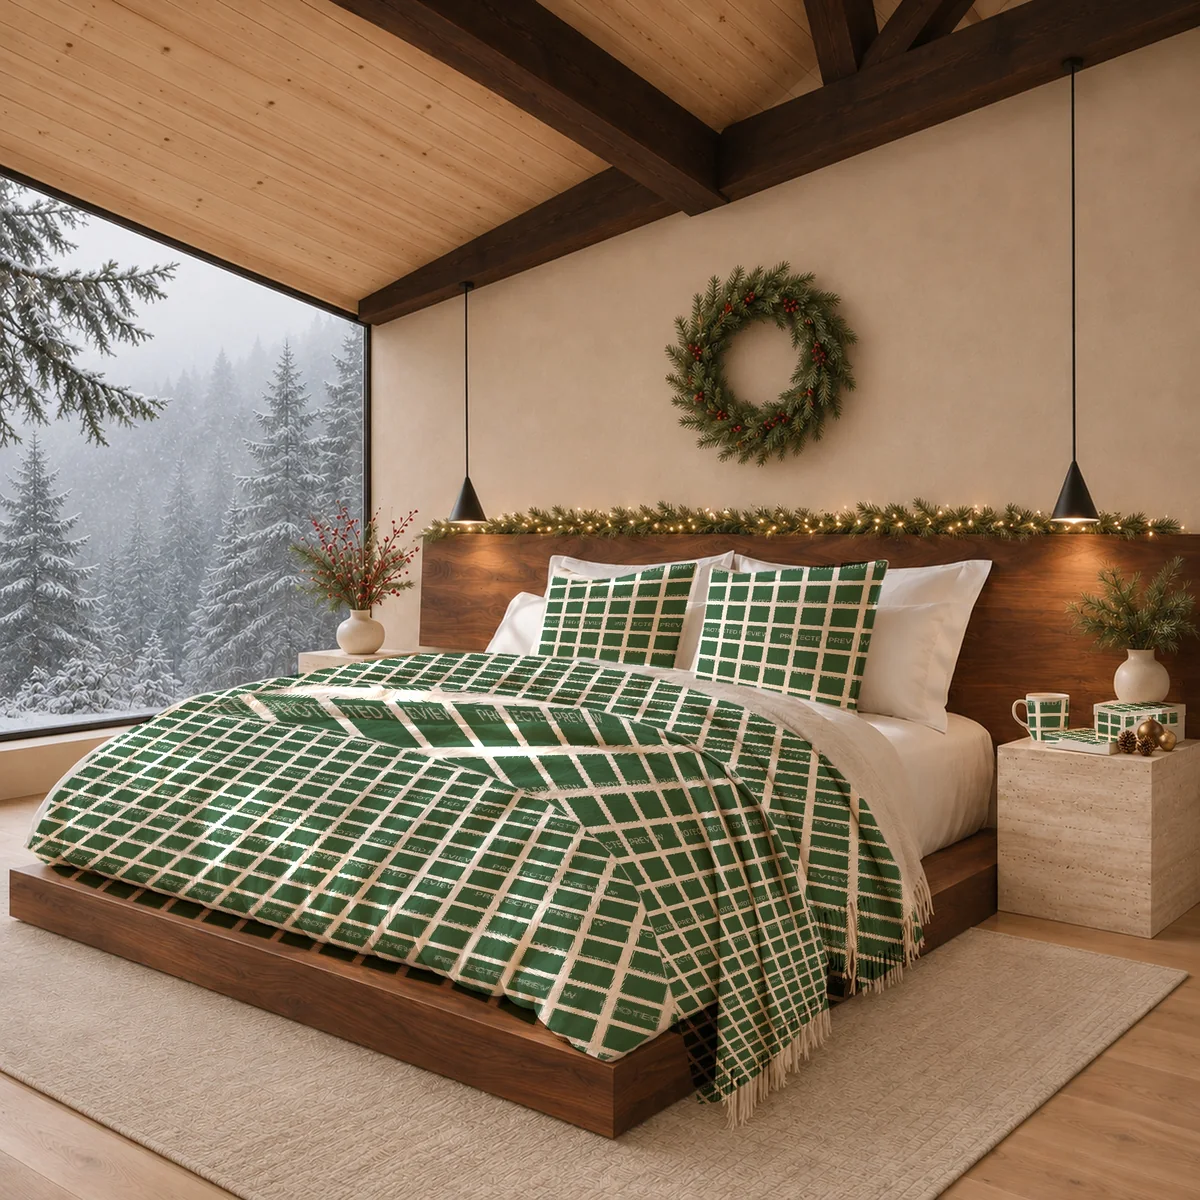
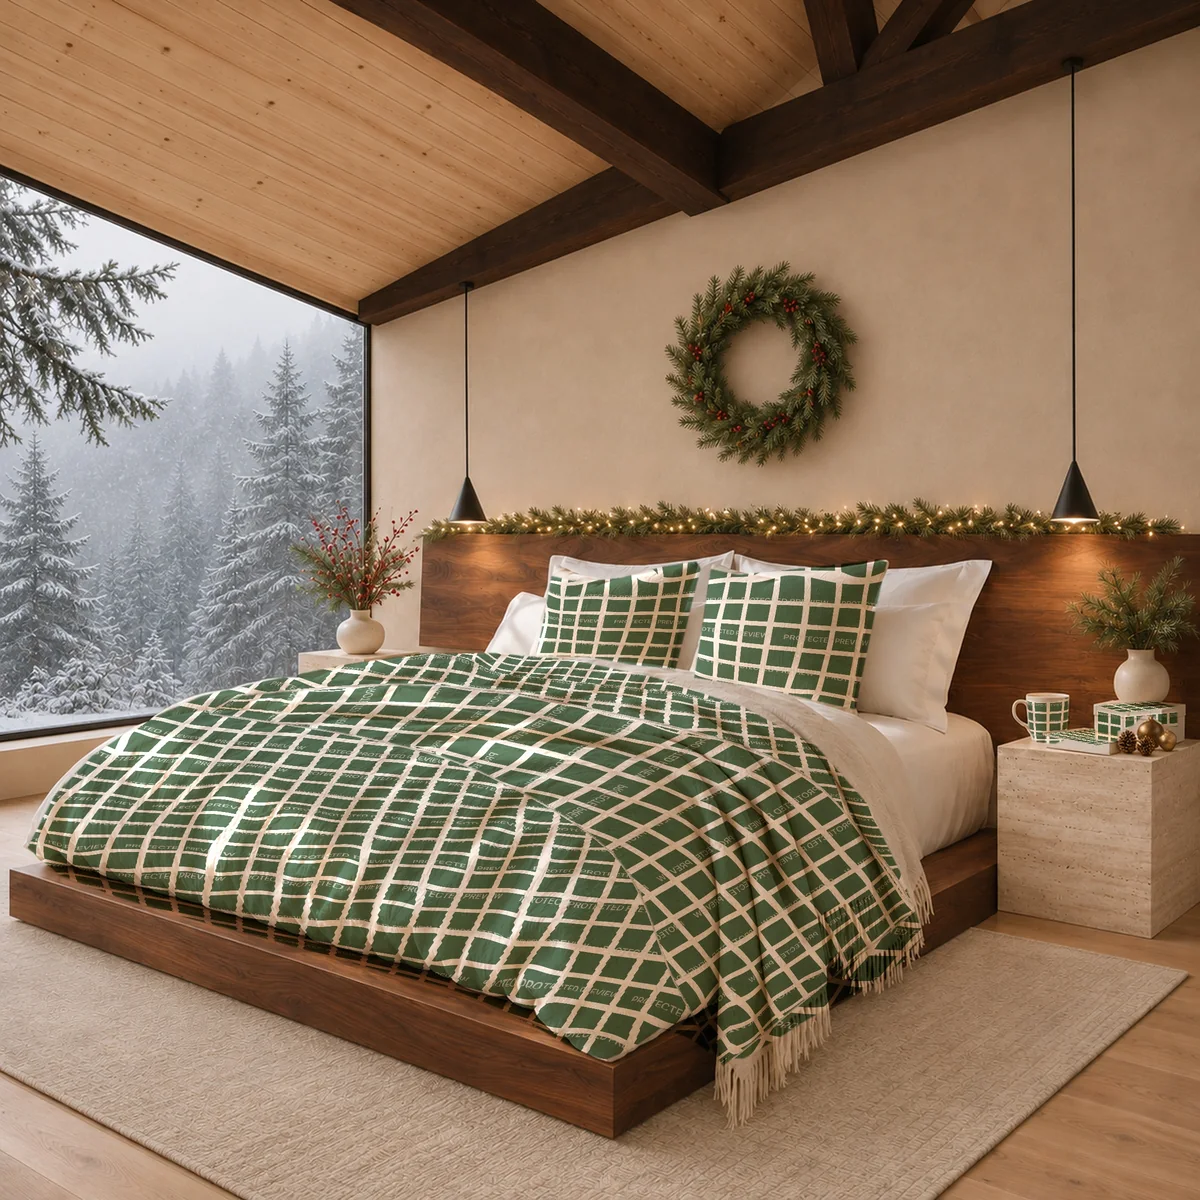
Refine sample surface mapping and material shading

Changed region(s): [[0.0308, 0.4625, 0.7708, 0.925], [0.8325, 0.5858, 0.925, 0.6167]]

diff --git a/index.html b/index.html
@@ -10,13 +10,13 @@
 <button type="button" data-pattern="geometric" aria-pressed="false"><span class="swatch grid" aria-hidden="true"></span>Windowpane</button></div></fieldset>
 <fieldset><legend>02 · Set the season</legend><div class="theme-options"><button type="button" data-theme="default" aria-pressed="true">Everyday</button><button type="button" data-theme="thanksgiving" aria-pressed="false">Thanksgiving</button><button type="button" data-theme="christmas" aria-pressed="false">Christmas</button></div></fieldset>
 <div class="sample-note"><p class="eyebrow">Your design, carried through</p><p>The room, textiles, and tabletop stay coordinated. The fourth image explains the digital download.</p><p class="small">Interactive gallery of pre-rendered samples made with motif’s compositor. No upload or live rendering on this website. Sample designs are demonstration artwork.</p></div>
-</div><div class="studio-preview"><button type="button" id="expand-sample" class="image-button" aria-label="Enlarge selected sample"><img id="sample-image" src="assets/samples/light-default-1.webp" width="2400" height="2400" loading="lazy" alt="Forest dots · Everyday · Overall room"><span class="expand-hint">View larger ↗</span></button>
+</div><div class="studio-preview"><button type="button" id="expand-sample" class="image-button" aria-label="Enlarge selected sample"><img id="sample-image" src="assets/samples/light-default-1.webp?v=materials3" width="2400" height="2400" loading="lazy" alt="Forest dots · Everyday · Overall room"><span class="expand-hint">View larger ↗</span></button>
 <div class="preview-caption"><span id="sample-caption">Forest dots · Everyday</span><span id="view-caption">01 / Overall room</span></div>
-<div class="view-options" role="group" aria-label="Listing image"><button type="button" data-view="1" aria-pressed="true"><img src="assets/samples/light-default-1.webp" width="2400" height="2400" loading="lazy" alt=""><span>01 · Room</span></button><button type="button" data-view="2" aria-pressed="false"><img src="assets/samples/light-default-2.webp" width="2400" height="2400" loading="lazy" alt=""><span>02 · Textiles</span></button><button type="button" data-view="3" aria-pressed="false"><img src="assets/samples/light-default-3.webp" width="2400" height="2400" loading="lazy" alt=""><span>03 · Tabletop</span></button><button type="button" data-view="4" aria-pressed="false"><img src="assets/samples/light-default-4.webp" width="2400" height="2400" loading="lazy" alt=""><span>04 · Details</span></button></div>
+<div class="view-options" role="group" aria-label="Listing image"><button type="button" data-view="1" aria-pressed="true"><img src="assets/samples/light-default-1.webp?v=materials3" width="2400" height="2400" loading="lazy" alt=""><span>01 · Room</span></button><button type="button" data-view="2" aria-pressed="false"><img src="assets/samples/light-default-2.webp?v=materials3" width="2400" height="2400" loading="lazy" alt=""><span>02 · Textiles</span></button><button type="button" data-view="3" aria-pressed="false"><img src="assets/samples/light-default-3.webp?v=materials3" width="2400" height="2400" loading="lazy" alt=""><span>03 · Tabletop</span></button><button type="button" data-view="4" aria-pressed="false"><img src="assets/samples/light-default-4.webp?v=materials3" width="2400" height="2400" loading="lazy" alt=""><span>04 · Details</span></button></div>
 <p id="sample-status" role="status" class="small">Select a pattern, season, or image to explore.</p></div></div>
 <noscript><p>Enable JavaScript to switch samples. The default collection is shown above.</p></noscript>
 </section>
 <dialog id="sample-dialog" aria-label="Enlarged listing sample"><button type="button" id="close-sample">Close ×</button><img id="large-sample" alt=""><p id="large-caption"></p></dialog>
 <section id="workflow" class="workflow"><p class="eyebrow">From artwork to a reviewed draft</p><h2>One pattern.<br>A considered collection.</h2><div class="steps"><article><span>01</span><h3>Bring your artwork</h3><p>Import a finished PNG or JPEG. motif preserves the original file for the customer download.</p></article><article><span>02</span><h3>Choose a setting</h3><p>Prepare coordinated images with Default, Thanksgiving, or Christmas compositions. Reusable templates keep the layout consistent.</p></article><article><span>03</span><h3>Make it ready</h3><p>Review protected images, file information, listing details, and your own license. Save the package locally.</p></article><article><span>04</span><h3>Keep the final say</h3><p>The Etsy integration is designed to create a draft after you connect and approve. You review and publish it yourself in Etsy.</p></article></div></section>
 <section class="principles"><div><p class="eyebrow">Built around your original</p><h2>Present the design.<br>Preserve the artwork.</h2></div><div><p>AI-authored photographic templates provide the setting. A deterministic compositor places a protected copy of your pattern on the designated surfaces. It does not ask AI to redraw your artwork.</p><p>The customer receives the original artwork, your approved license, and a readme. The furniture and products pictured are illustrative applications, not physical items for sale.</p><p class="note">motif is currently in development. Live Etsy access is pending Etsy approval and service deployment. This page is not an app-store availability announcement.</p></div></section></main>
-<footer><a class="wordmark" href="./">motif</a><p>Independent software for digital artwork sellers.<br>Not affiliated with or endorsed by Etsy.</p><div><a href="privacy.html">Privacy</a><a href="https://github.com/js503/motif/issues">Contact &amp; support</a></div></footer><script src="samples.js" defer></script></body></html>
+<footer><a class="wordmark" href="./">motif</a><p>Independent software for digital artwork sellers.<br>Not affiliated with or endorsed by Etsy.</p><div><a href="privacy.html">Privacy</a><a href="https://github.com/js503/motif/issues">Contact &amp; support</a></div></footer><script src="samples.js?v=materials3" defer></script></body></html>

diff --git a/samples.js b/samples.js
@@ -9,7 +9,7 @@
   const dialog = document.querySelector('#sample-dialog');
   const expand = document.querySelector('#expand-sample');
   let revision = 0;
-  const path = (view) => `assets/samples/${state.pattern}-${state.theme}-${view}.webp`;
+  const path = (view) => `assets/samples/${state.pattern}-${state.theme}-${view}.webp?v=materials3`;
   async function render() {
     const current = ++revision;
     const src = path(state.view);
